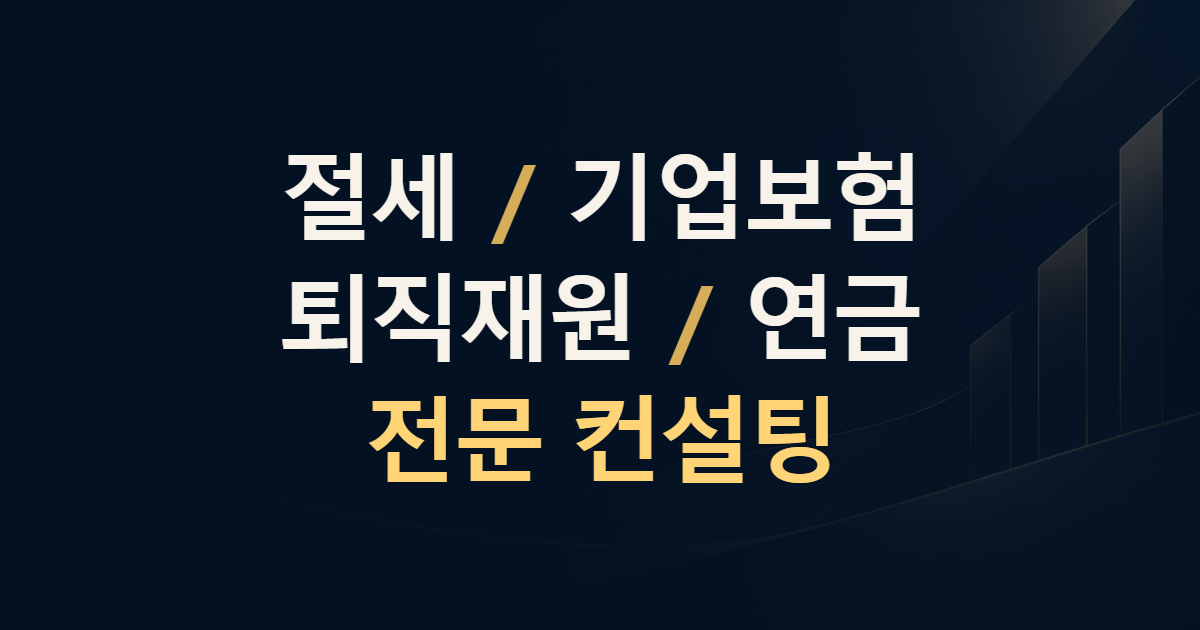
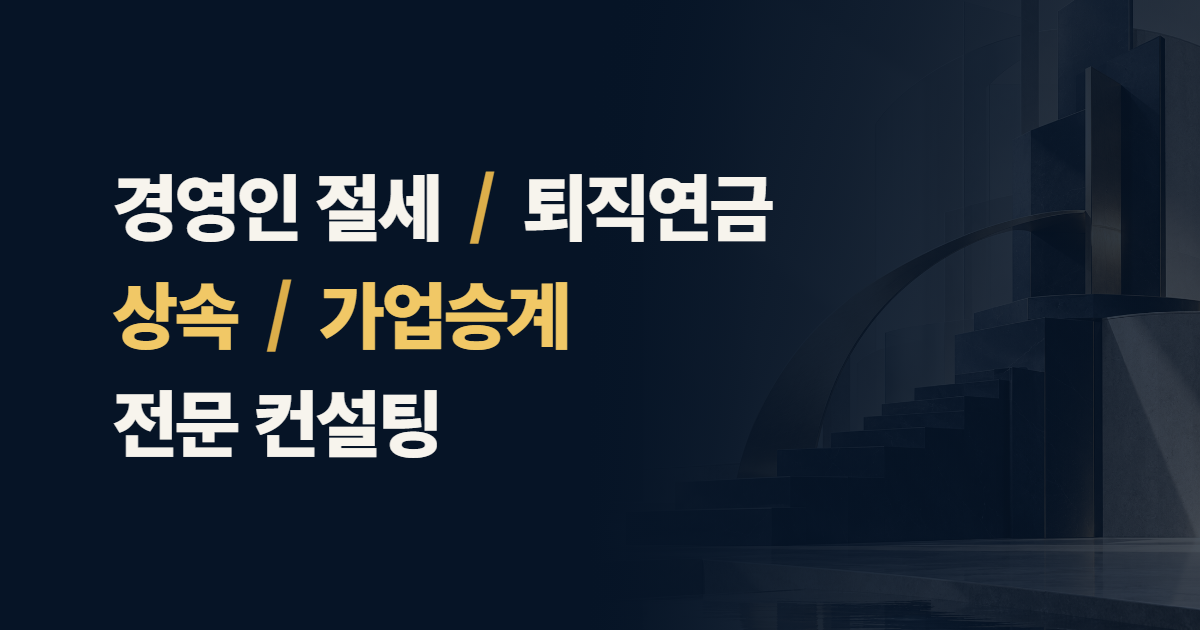
Refocus landing page on executive financial planning

diff --git a/index.html b/index.html
@@ -3,27 +3,27 @@
   <head>
     <meta charset="UTF-8" />
     <meta name="viewport" content="width=device-width, initial-scale=1.0" />
-    <meta name="description" content="회사의 자산, 대표자 퇴직재원, 절세와 가업승계를 함께 점검하는 기업 금융컨설팅 상담 페이지" />
-    <title>대표자 금융전략 | 기업 금융진단</title>
+    <meta name="description" content="경영인의 절세, 퇴직연금, 상속과 가업승계를 함께 점검하는 맞춤 금융컨설팅 상담 페이지" />
+    <title>경영인 절세·퇴직연금·상속 컨설팅 | 에셋플랜</title>
     <link rel="canonical" href="https://masha38.github.io/asset-plan-consulting-preview/" />
     <meta property="og:type" content="website" />
     <meta property="og:locale" content="ko_KR" />
     <meta property="og:site_name" content="에셋플랜 금융컨설팅" />
-    <meta property="og:title" content="절세·기업보험·퇴직재원·연금 전문 컨설팅" />
-    <meta property="og:description" content="기업과 대표를 위한 맞춤형 금융·보험 컨설팅" />
+    <meta property="og:title" content="경영인 절세·퇴직연금·상속·가업승계 전문 컨설팅" />
+    <meta property="og:description" content="경영인의 절세·퇴직연금·상속·가업승계를 한 번에 점검하는 맞춤 금융진단" />
     <meta property="og:url" content="https://masha38.github.io/asset-plan-consulting-preview/" />
     <meta property="og:image" content="https://masha38.github.io/asset-plan-consulting-preview/assets/og-image.png" />
     <meta property="og:image:width" content="1200" />
     <meta property="og:image:height" content="630" />
-    <meta property="og:image:alt" content="절세·기업보험·퇴직재원·연금 전문 컨설팅" />
+    <meta property="og:image:alt" content="경영인 절세·퇴직연금·상속·가업승계 전문 컨설팅" />
     <meta name="twitter:card" content="summary_large_image" />
-    <meta name="twitter:title" content="절세·기업보험·퇴직재원·연금 전문 컨설팅" />
-    <meta name="twitter:description" content="기업과 대표를 위한 맞춤형 금융·보험 컨설팅" />
+    <meta name="twitter:title" content="경영인 절세·퇴직연금·상속·가업승계 전문 컨설팅" />
+    <meta name="twitter:description" content="경영인의 절세·퇴직연금·상속·가업승계를 한 번에 점검하는 맞춤 금융진단" />
     <meta name="twitter:image" content="https://masha38.github.io/asset-plan-consulting-preview/assets/og-image.png" />
     <link rel="icon" type="image/png" sizes="32x32" href="./assets/favicon-32x32.png" />
     <link rel="icon" type="image/png" sizes="512x512" href="./assets/favicon-512.png" />
     <link rel="apple-touch-icon" sizes="180x180" href="./assets/apple-touch-icon.png" />
-    <link rel="stylesheet" href="./styles.css" />
+    <link rel="stylesheet" href="./styles.css?v=20261015-1" />
     <script src="./script.js?v=20261013-1" defer></script>
   </head>
   <body>
@@ -66,16 +66,16 @@
 
       <section class="solutions" id="solutions">
         <div class="section-shell solutions-inner">
-          <div class="solutions-heading"><div><p class="section-label section-label-light">FINANCIAL &amp; INSURANCE</p><h2>대표자 금융전략과<br />회사에 필요한 보험</h2></div><p>절세·퇴직·상속·승계를 위한 대표자 금융전략과 회사 운영에 필요한 주요 보험을 한 영역에서 함께 확인합니다.</p></div>
+          <div class="solutions-heading"><div><p class="section-label section-label-light">CEO ASSET PLANNING</p><h2>경영인을 위한<br />절세·연금·상속 전략</h2></div><p>회사의 자산과 대표자의 미래를 함께 보고, 현재의 절세부터 은퇴와 승계까지 필요한 순서를 설계합니다.</p></div>
           <div class="solutions-grid">
-            <article class="solution-primary"><div><span>대표자 금융전략</span><h3>절세에서 승계까지<br />이어지는 장기 설계</h3></div><ul><li>사업자금 활용과 대표자 퇴직재원</li><li>종신보험을 활용한 상속재원 검토</li><li>가업상속공제 사전 요건 점검</li><li>가업승계 증여세 과세특례 검토</li></ul><p>세무 및 법률 판단이 필요한 경우 관련 전문가 검토를 연계합니다.</p></article>
-            <div class="protection-list" aria-label="회사에 필요한 주요 보험">
-              <div class="protection-head"><span>회사에 필요한 보험</span><strong>사업장에서 확인할 4가지</strong></div>
-              <article><span class="protection-icon" aria-hidden="true">01</span><div><h3>직원 단체상해보험</h3><p>임직원의 업무 중 사고와 상해 보장</p></div></article>
-              <article><span class="protection-icon" aria-hidden="true">02</span><div><h3>화재·재산종합보험</h3><p>사업장, 설비와 주요 자산의 손해 대비</p></div></article>
-              <article><span class="protection-icon" aria-hidden="true">03</span><div><h3>시설·영업 배상책임</h3><p>시설 이용자와 영업 과정의 배상위험 대비</p></div></article>
-              <article><span class="protection-icon" aria-hidden="true">04</span><div><h3>사용자배상책임보험</h3><p>산업재해 관련 사업주의 추가 책임 대비</p></div></article>
-            </div>
+            <article class="solution-primary">
+              <div class="solution-lead"><span>경영인 금융전략</span><h3>현재의 절세부터<br />은퇴와 승계까지</h3></div>
+              <div class="solution-details"><ul><li>회사 자산 활용과 절세 구조 점검</li><li>대표자 퇴직재원 및 연금 설계</li><li>종신보험을 활용한 상속재원 검토</li><li>가업상속공제와 가업승계 증여세 과세특례 점검</li></ul><p>세무 및 법률 판단이 필요한 경우 관련 전문가 검토를 연계합니다.</p></div>
+            </article>
+            <aside class="protection-list" aria-label="필요 시 함께 확인하는 사업장 보험">
+              <div class="protection-head"><span>사업장 기본 보장</span><strong>필요한 경우에만 함께 확인합니다</strong></div>
+              <div class="protection-items"><span>직원 단체상해보험</span><span>화재·재산종합보험</span><span>시설·영업 배상책임</span><span>사용자배상책임보험</span></div>
+            </aside>
           </div>
         </div>
       </section>

diff --git a/styles.css b/styles.css
@@ -89,22 +89,19 @@ button, input, select { font: inherit; } button { color: inherit; }
 .section-label-light { color: var(--gold); }
 .solutions-heading > div .section-label { margin-bottom: 17px; }
 .solutions-heading > p { max-width: 520px; margin: 0 0 7px; color: #aebbc9; font-size: 18px; }
-.solutions-grid { margin-top: 65px; display: grid; grid-template-columns: .9fr 1.1fr; gap: 20px; align-items: stretch; }
-.solution-primary { padding: 38px; display: flex; flex-direction: column; border: 1px solid rgba(216,173,88,.55); border-radius: var(--radius); background: var(--navy-950); }
+.solutions-grid { margin-top: 65px; display: grid; grid-template-columns: 1fr; gap: 18px; }
+.solution-primary { padding: 48px; display: grid; grid-template-columns: .78fr 1.22fr; gap: 64px; border: 1px solid rgba(216,173,88,.55); border-radius: var(--radius); background: var(--navy-950); }
 .solution-primary > div > span, .protection-head span { color: var(--gold); font-size: 12px; font-weight: 850; letter-spacing: .08em; }
 .solution-primary h3 { margin: 17px 0 0; font-size: 34px; line-height: 1.34; letter-spacing: -.04em; }
-.solution-primary ul { margin: 48px 0 30px; padding: 0; list-style: none; border-top: 1px solid rgba(255,255,255,.13); }
+.solution-primary ul { margin: 0 0 24px; padding: 0; list-style: none; border-top: 1px solid rgba(255,255,255,.13); }
 .solution-primary li { position: relative; padding: 16px 0 16px 21px; border-bottom: 1px solid rgba(255,255,255,.13); color: #d2dae4; font-size: 16px; }
 .solution-primary li::before { content: ""; position: absolute; left: 1px; top: 24px; width: 6px; height: 6px; border-radius: 50%; background: var(--gold); }
-.solution-primary > p { margin: auto 0 0; color: #778aa1; font-size: 11px; }
-.protection-list { overflow: hidden; border-radius: var(--radius); background: var(--surface); color: var(--ink); }
-.protection-head { min-height: 104px; padding: 25px 29px; display: flex; align-items: center; justify-content: space-between; border-bottom: 1px solid var(--line); }
-.protection-head strong { font-size: 20px; }
-.protection-list article { min-height: 93px; padding: 18px 29px; display: grid; grid-template-columns: 48px 1fr; align-items: center; gap: 17px; border-bottom: 1px solid var(--line); }
-.protection-list article:last-child { border-bottom: 0; }
-.protection-icon { width: 42px; height: 42px; display: grid; place-items: center; border: 1px solid #d5c49f; color: #9e7428; font-size: 10px; font-weight: 850; }
-.protection-list h3 { margin: 0 0 2px; font-size: 20px; letter-spacing: -.025em; }
-.protection-list p { margin: 0; color: var(--muted); font-size: 15px; }
+.solution-details > p { margin: 0; color: #778aa1; font-size: 12px; }
+.protection-list { padding: 22px 28px; display: grid; grid-template-columns: minmax(230px,.7fr) 1.3fr; align-items: center; gap: 32px; border: 1px solid rgba(255,255,255,.12); border-radius: var(--radius); background: rgba(255,255,255,.035); }
+.protection-head { display: grid; gap: 6px; }
+.protection-head strong { color: #c5ced9; font-size: 15px; font-weight: 650; }
+.protection-items { display: grid; grid-template-columns: repeat(4,minmax(0,1fr)); }
+.protection-items span { min-height: 42px; display: flex; align-items: center; padding: 0 18px; border-left: 1px solid rgba(255,255,255,.12); color: #8f9db0; font-size: 13px; line-height: 1.4; }
 
 .contact { display: grid; grid-template-columns: .88fr 1.12fr; gap: 78px; align-items: start; }
 .advisor-copy { padding-top: 24px; }
@@ -167,10 +164,12 @@ form { margin-top: 34px; }
   .diagnosis-list article { grid-template-columns: 1fr; gap: 8px; padding: 25px 18px; }
   .solutions-inner { padding-top: 82px; padding-bottom: 82px; }
   .solutions-heading > p { margin-top: 10px; }
-  .solutions-grid { margin-top: 42px; grid-template-columns: 1fr; }
-  .solution-primary { padding: 28px 23px; } .solution-primary ul { margin-top: 35px; }
-  .protection-head { align-items: flex-start; flex-direction: column; justify-content: center; gap: 4px; }
-  .protection-list article { padding-inline: 22px; }
+  .solutions-grid { margin-top: 42px; }
+  .solution-primary { padding: 28px 23px; grid-template-columns: 1fr; gap: 34px; }
+  .protection-list { padding: 23px; grid-template-columns: 1fr; gap: 20px; }
+  .protection-items { grid-template-columns: repeat(2,minmax(0,1fr)); border-top: 1px solid rgba(255,255,255,.12); }
+  .protection-items span { min-height: 48px; padding: 0 12px; border-left: 0; border-bottom: 1px solid rgba(255,255,255,.12); }
+  .protection-items span:nth-child(even) { border-left: 1px solid rgba(255,255,255,.12); }
   .contact { grid-template-columns: 1fr; gap: 55px; } .advisor-copy { padding-top: 0; }
   .consultation-card { padding: 30px 21px; } .form-heading h2 { font-size: 35px; } .field-grid { grid-template-columns: 1fr; gap: 12px; margin-bottom: 12px; }
   .mobile-cta { position: fixed; left: 12px; right: 12px; bottom: 12px; z-index: 40; min-height: 52px; display: flex; align-items: center; justify-content: space-between; padding: 0 20px; border-radius: 8px; background: var(--gold); color: var(--navy-950); box-shadow: 0 14px 32px rgba(6,20,38,.28); font-weight: 850; }
@@ -197,10 +196,10 @@ form { margin-top: 34px; }
 .solutions-heading > p,
 .solution-primary > div > span,
 .protection-head span,
+.protection-head strong,
 .solution-primary li,
-.solution-primary > p,
-.protection-icon,
-.protection-list p,
+.solution-details > p,
+.protection-items span,
 .advisor-lead,
 .advisor-points article > span,
 .advisor-points strong,
@@ -215,7 +214,7 @@ form { margin-top: 34px; }
 .form-status,
 .mobile-cta { font-size: 19px; }
 
-.solution-primary > p { color: #aebbc9; }
+.solution-details > p { color: #aebbc9; }
 
 @media (max-width: 767px) {
   .hero::before { width: 78vw; background-position: center 50%; opacity: .4; -webkit-mask-image: linear-gradient(90deg,transparent 0,rgba(0,0,0,.2) 4%,rgba(0,0,0,.64) 12%,#000 20%,#000 80%,rgba(0,0,0,.64) 88%,rgba(0,0,0,.2) 96%,transparent 100%); mask-image: linear-gradient(90deg,transparent 0,rgba(0,0,0,.2) 4%,rgba(0,0,0,.64) 12%,#000 20%,#000 80%,rgba(0,0,0,.64) 88%,rgba(0,0,0,.2) 96%,transparent 100%); }
